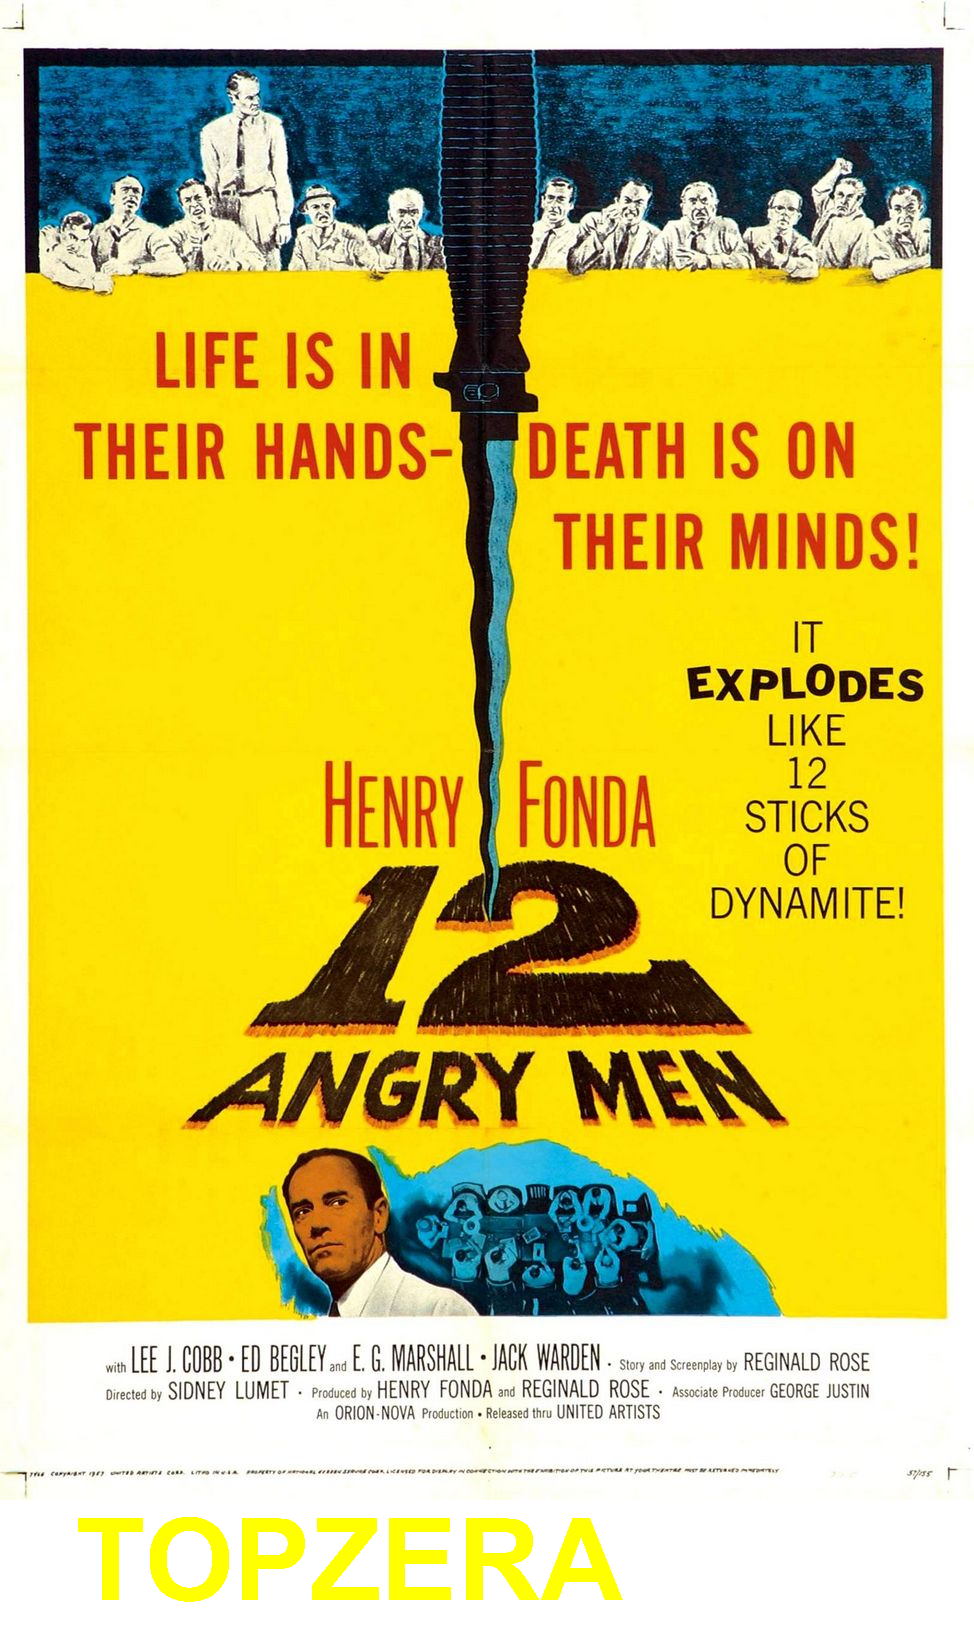
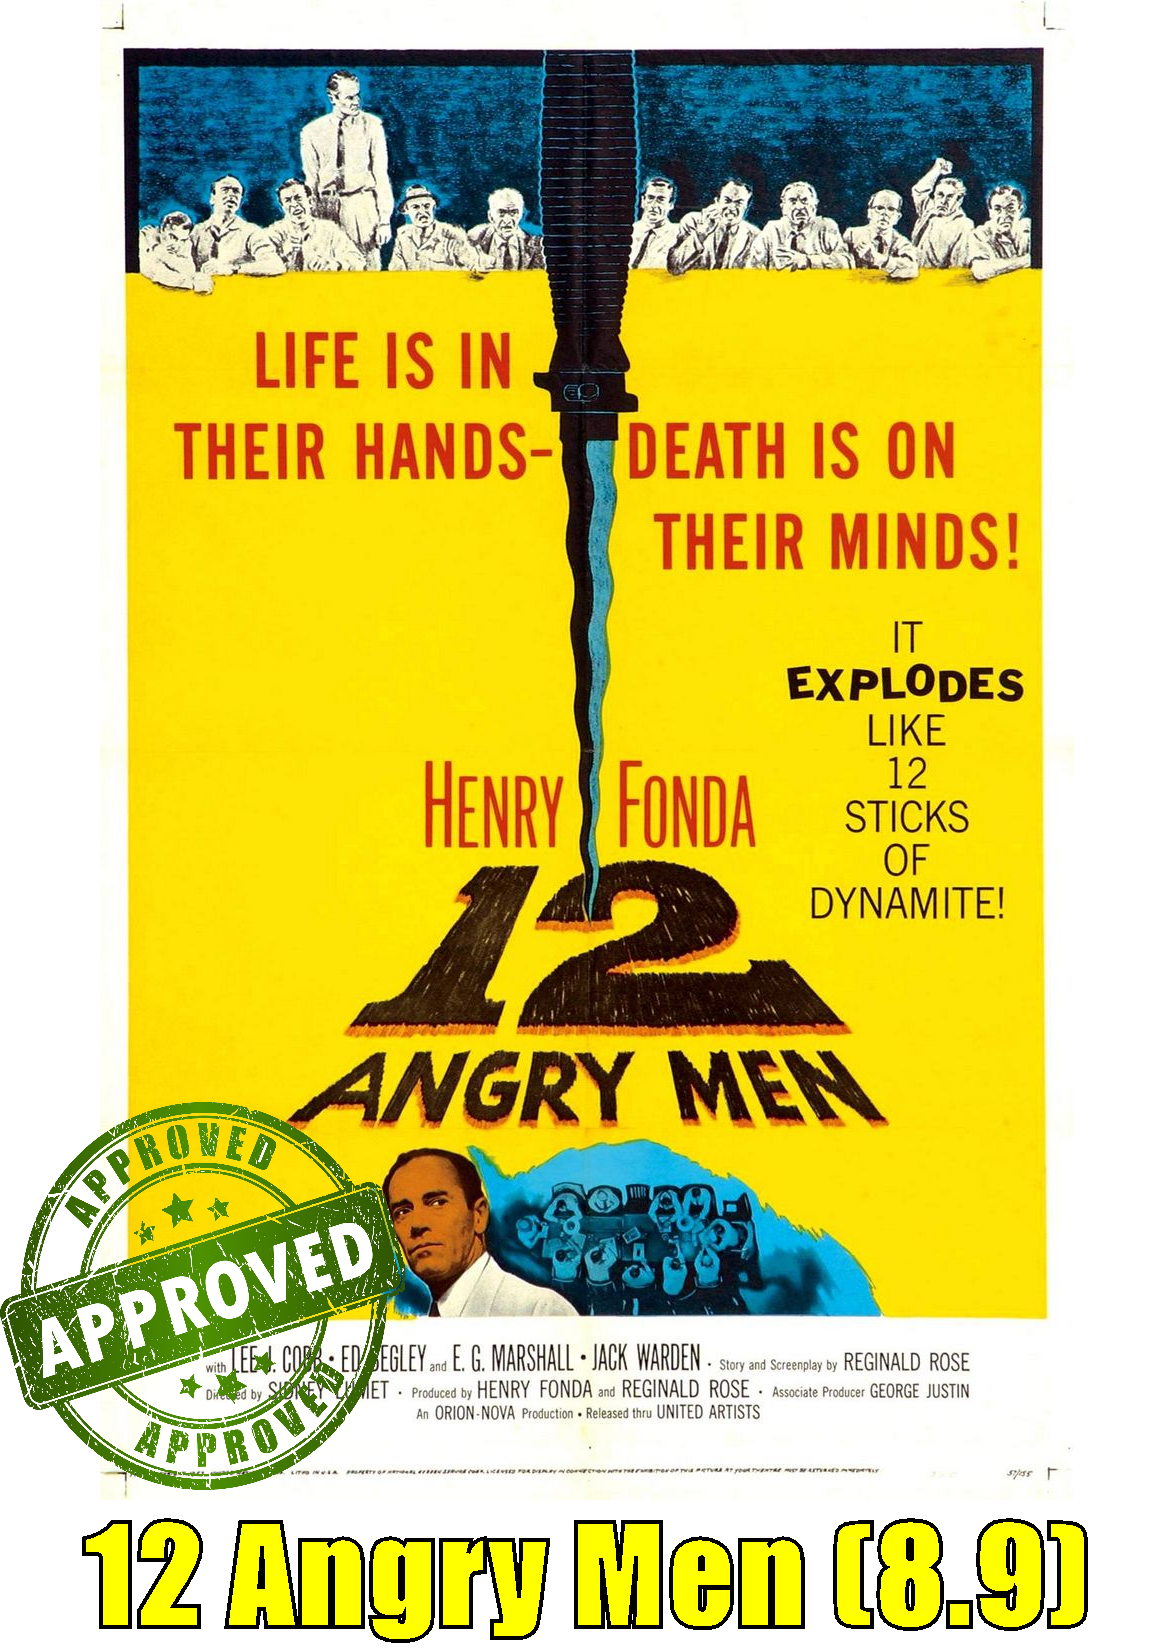
Aula 2 parte 4

diff --git a/src/alurastickers/GeradoraDeFigurinhas.java b/src/alurastickers/GeradoraDeFigurinhas.java
@@ -1,9 +1,16 @@
 
 package alurastickers;
 
+import java.awt.BasicStroke;
 import java.awt.Color;
 import java.awt.Font;
+import java.awt.FontMetrics;
 import java.awt.Graphics2D;
+import java.awt.Shape;
+import java.awt.font.FontRenderContext;
+import java.awt.font.TextLayout;
+import java.awt.geom.AffineTransform;
+import java.awt.geom.Rectangle2D;
 import java.awt.image.BufferedImage;
 import java.io.File;
 import java.io.InputStream;
@@ -12,32 +19,65 @@ import javax.imageio.ImageIO;
 
 public class GeradoraDeFigurinhas {
     
-    public void criar(InputStream inputStream, String nomeArquivo) throws Exception{
+    public void criar(InputStream inputStream, String nomeArquivo, String texto, InputStream selo) throws Exception{
         //LEITURA DE IMAGEM
         //InputStream inputStream = new FileInputStream("entrada/Filme.jpg");
         //BufferedImage imagemOriginal = ImageIO.read(inputStream);
         //InputStream inputStream = new URL("https://raw.githubusercontent.com/alura-cursos/imersao-java-2-api/main/TopMovies_1.jpg").openStream();
         BufferedImage imagemOriginal = ImageIO.read(inputStream);
+        BufferedImage seloImage = ImageIO.read(selo);
         
         //CRIAR UMA NOVA IMAGEM EM MEMÓRIA COM TRANPARENCIA E TAMANHO NOVO
         int largura = imagemOriginal.getWidth();
         int altura = imagemOriginal.getHeight();
         int novaAltura = altura + 150;
-        BufferedImage novaImagem = new BufferedImage(largura, novaAltura, BufferedImage.TRANSLUCENT);
+        int novaLargura = largura + 200;
+        BufferedImage novaImagem = new BufferedImage(novaLargura, novaAltura, BufferedImage.TRANSLUCENT);
+
+        int seloImageY = altura - seloImage.getHeight(); // x= Larg - y= Alt
         
         //COPIAR A IMAGEM ORIGINAL PRA NOVO IMAGEM (EM MEMÓRIA)
         Graphics2D graphics = (Graphics2D) novaImagem.getGraphics();
-        graphics.drawImage(imagemOriginal, 0, 0, null);
+        //graphics.drawImage(imagemOriginal, 0, 0, null); //--sem bordas
+        graphics.drawImage(imagemOriginal, 100, 0, null);
+
+        graphics.drawImage(seloImage, 0, seloImageY, null);
 
         //CONFIGURAR FONTE
-        var fonte = new Font(Font.SANS_SERIF, Font.BOLD, 115);
+        var fonte = new Font("Impact", Font.BOLD, 128);
         graphics.setColor(Color.YELLOW);
         graphics.setFont(fonte);
         
         //ESCREVER UMA FRASE NA NOVA IMAGEM
-        graphics.drawString("TOPZERA", 75, novaAltura -50);
-        
-        
+        FontMetrics fontMetrics = graphics.getFontMetrics();
+        Rectangle2D retangulo = fontMetrics.getStringBounds(texto, graphics);
+        int alturaTexto = (int)retangulo.getHeight();
+        int larguraTexto = (int)retangulo.getWidth();
+
+        int posXTexto = (novaLargura - larguraTexto)/2;
+        float posYTexto = (novaAltura - altura)/2 + altura + alturaTexto/3;
+
+        graphics.drawString(texto, posXTexto, posYTexto);
+
+        // Definindo estilo do contorno.
+        FontRenderContext fontRenderContext = graphics.getFontRenderContext();
+        var textLayout = new TextLayout(texto, fonte, fontRenderContext);
+
+        // Definindo posi��o.
+        Shape outLine = textLayout.getOutline(null);
+        AffineTransform transform = graphics.getTransform();
+        transform.translate(posXTexto, posYTexto);
+        graphics.setTransform(transform);
+
+        // Definindo largura do contorno.
+        var outLineStoke = new BasicStroke(largura * 0.004f);
+        graphics.setStroke(outLineStoke);
+
+        // Definindo cor e desenhando o contorno.
+        graphics.setColor(Color.BLACK);
+        graphics.draw(outLine);
+        graphics.setClip(outLine);
+         
         //ESCREVER A NOVA IMAGEM EM UM ARQUIVO
         File file = new File("saida");
         boolean mkdir = file.mkdir();

diff --git a/src/alurastickers/AluraStickers.java b/src/alurastickers/AluraStickers.java
@@ -1,6 +1,7 @@
 
 package alurastickers;
 
+import java.io.FileInputStream;
 import java.io.IOException;
 import java.io.InputStream;
 import java.net.URI;
@@ -39,11 +40,22 @@ public class AluraStickers {
         for (Map<String,String> filme : listaDeFilmes) {
             String urlImagem = filme.get("image");
             String titulo = filme.get("title");
-            String pontuacao = filme.get("imDbRating");
+            double imDbRating = Double.parseDouble(filme.get("imDbRating"));
             InputStream inputStream = new URL(urlImagem).openStream();
             String nomeArquivo = titulo + ".png";
 
-            geradora.criar(inputStream, nomeArquivo);
+            String texto;
+            String nota = String.valueOf(imDbRating);
+            InputStream selo;
+            if (imDbRating >= 8.5 ){
+                texto = titulo+" ("+nota+")";
+                selo = new FileInputStream("entrada/aprovado.png");
+            }else{
+                texto = titulo+" ("+nota+")";
+                selo = new FileInputStream("entrada/reprovado.png");
+            }
+
+            geradora.criar(inputStream, nomeArquivo, texto, selo);
 
             System.out.println(titulo);
             System.out.println(filme.get("image"));
